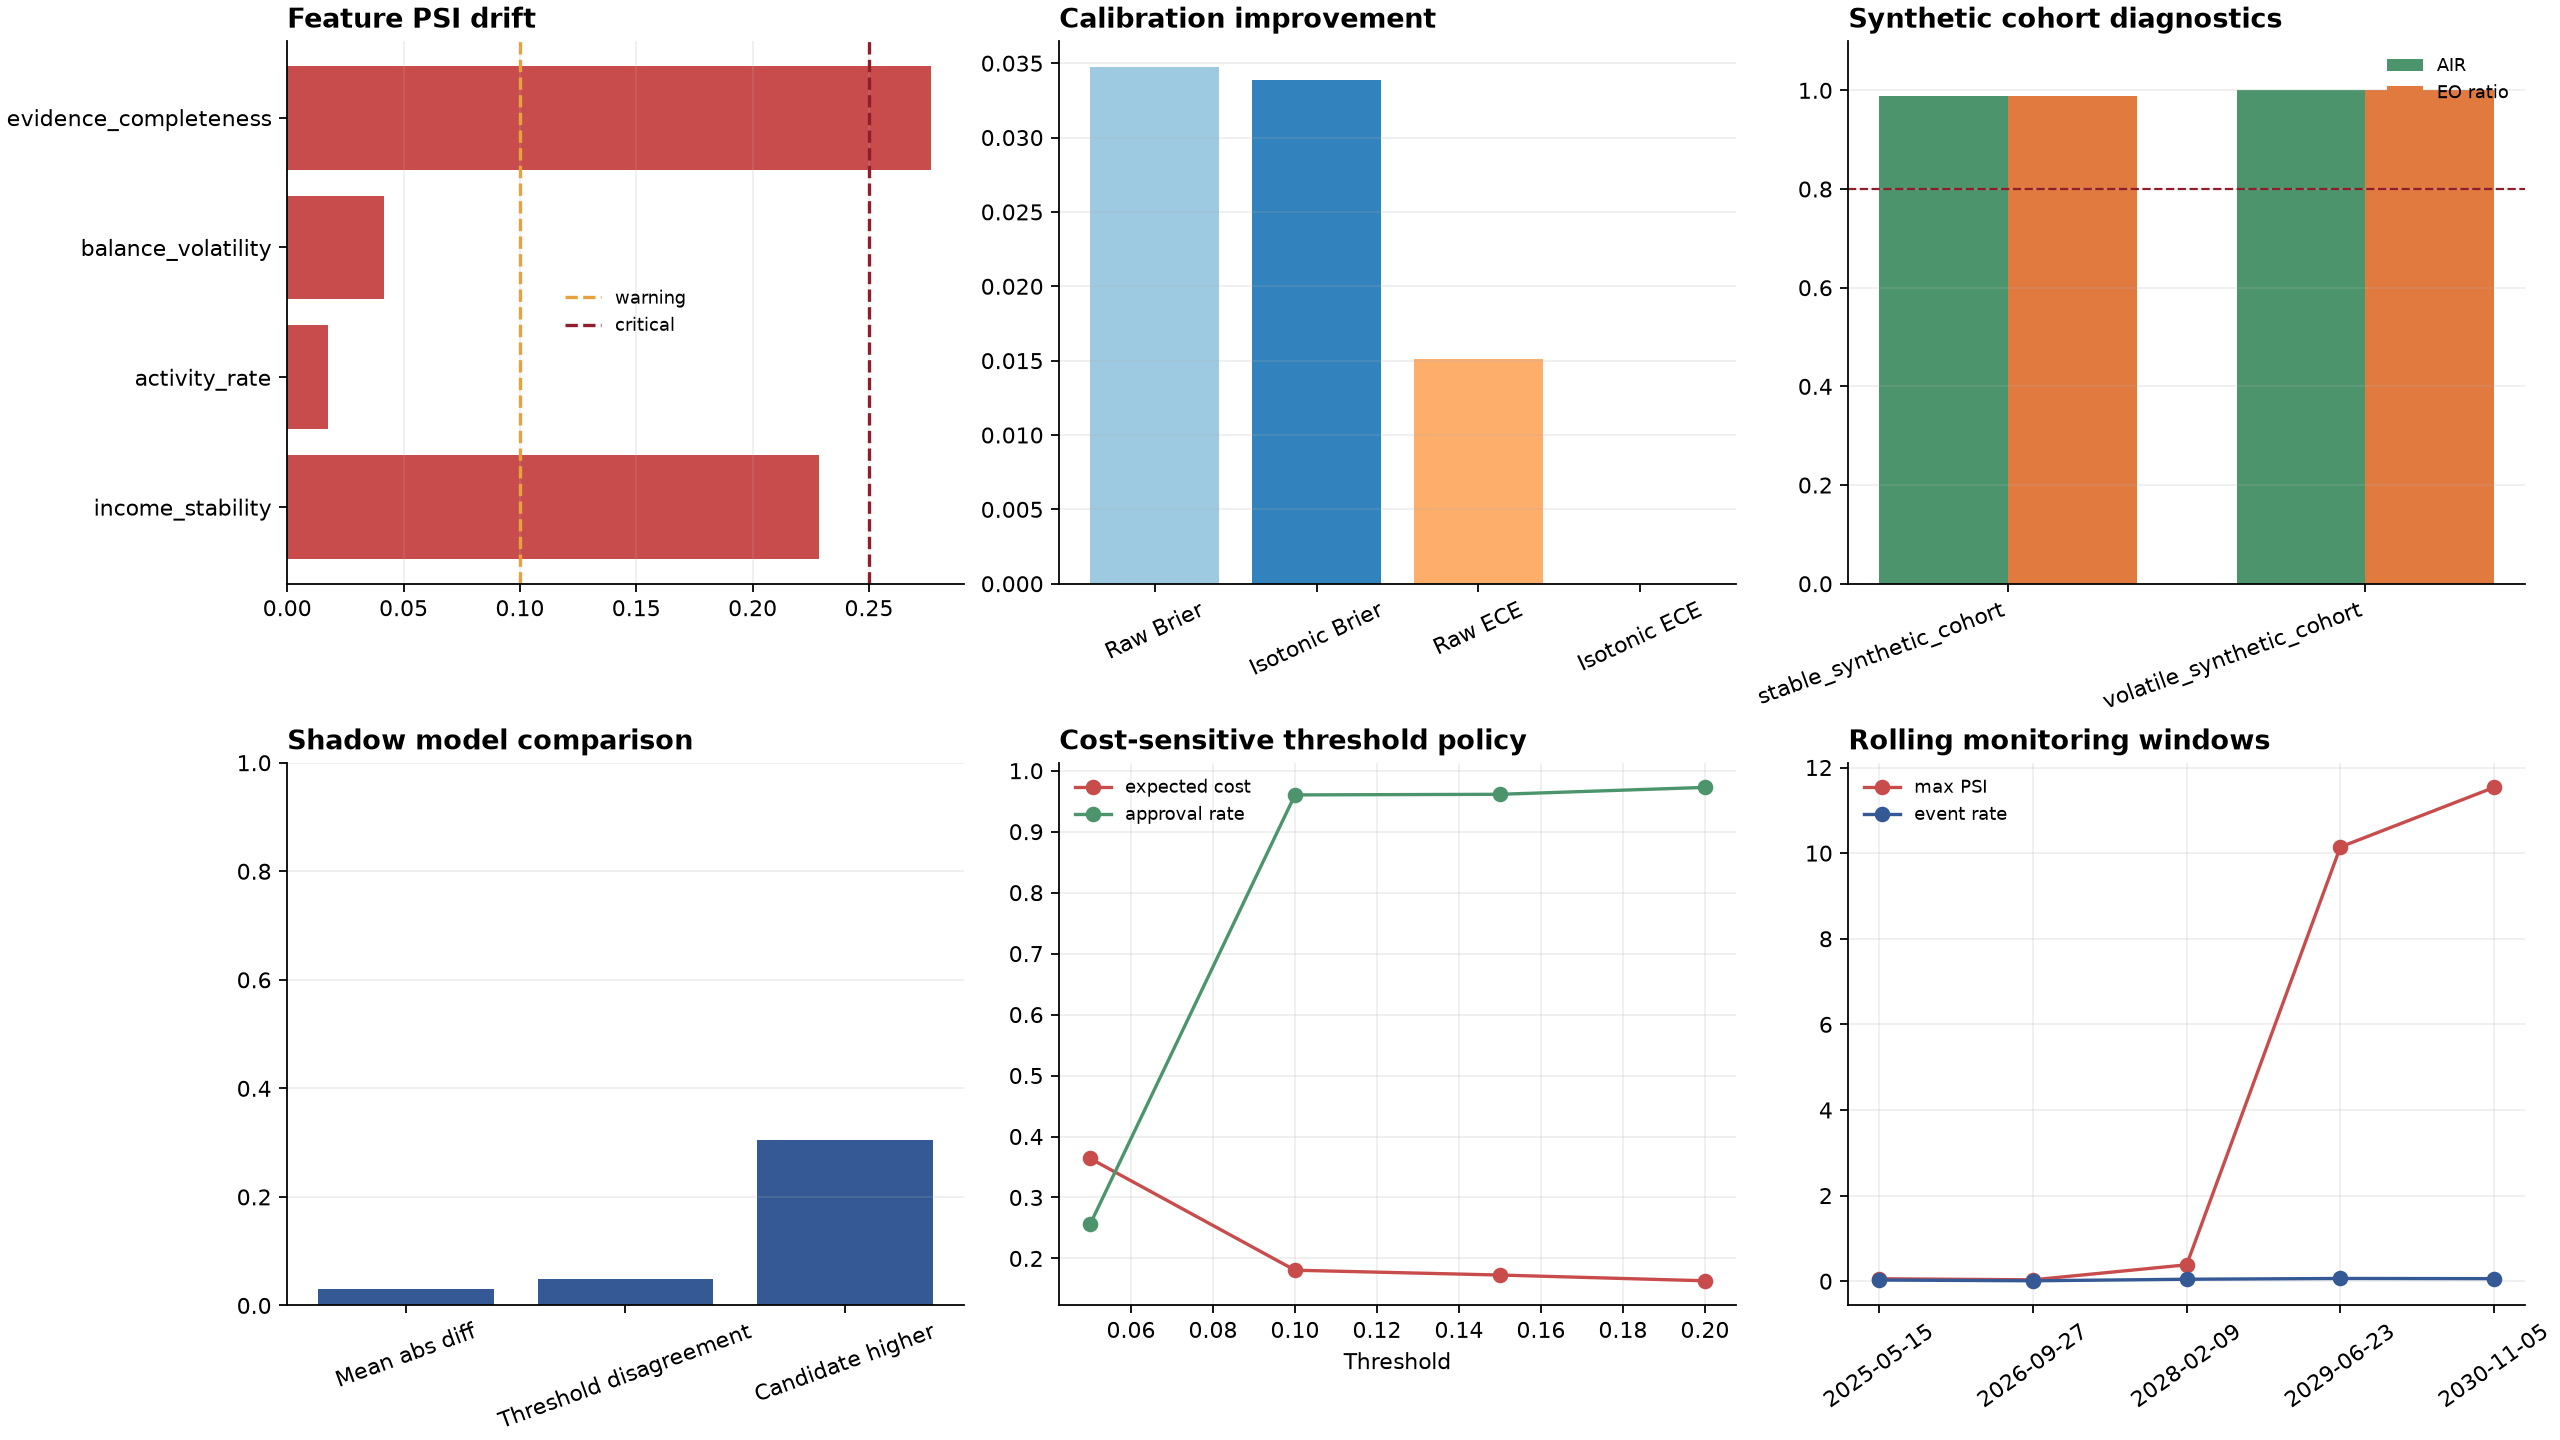
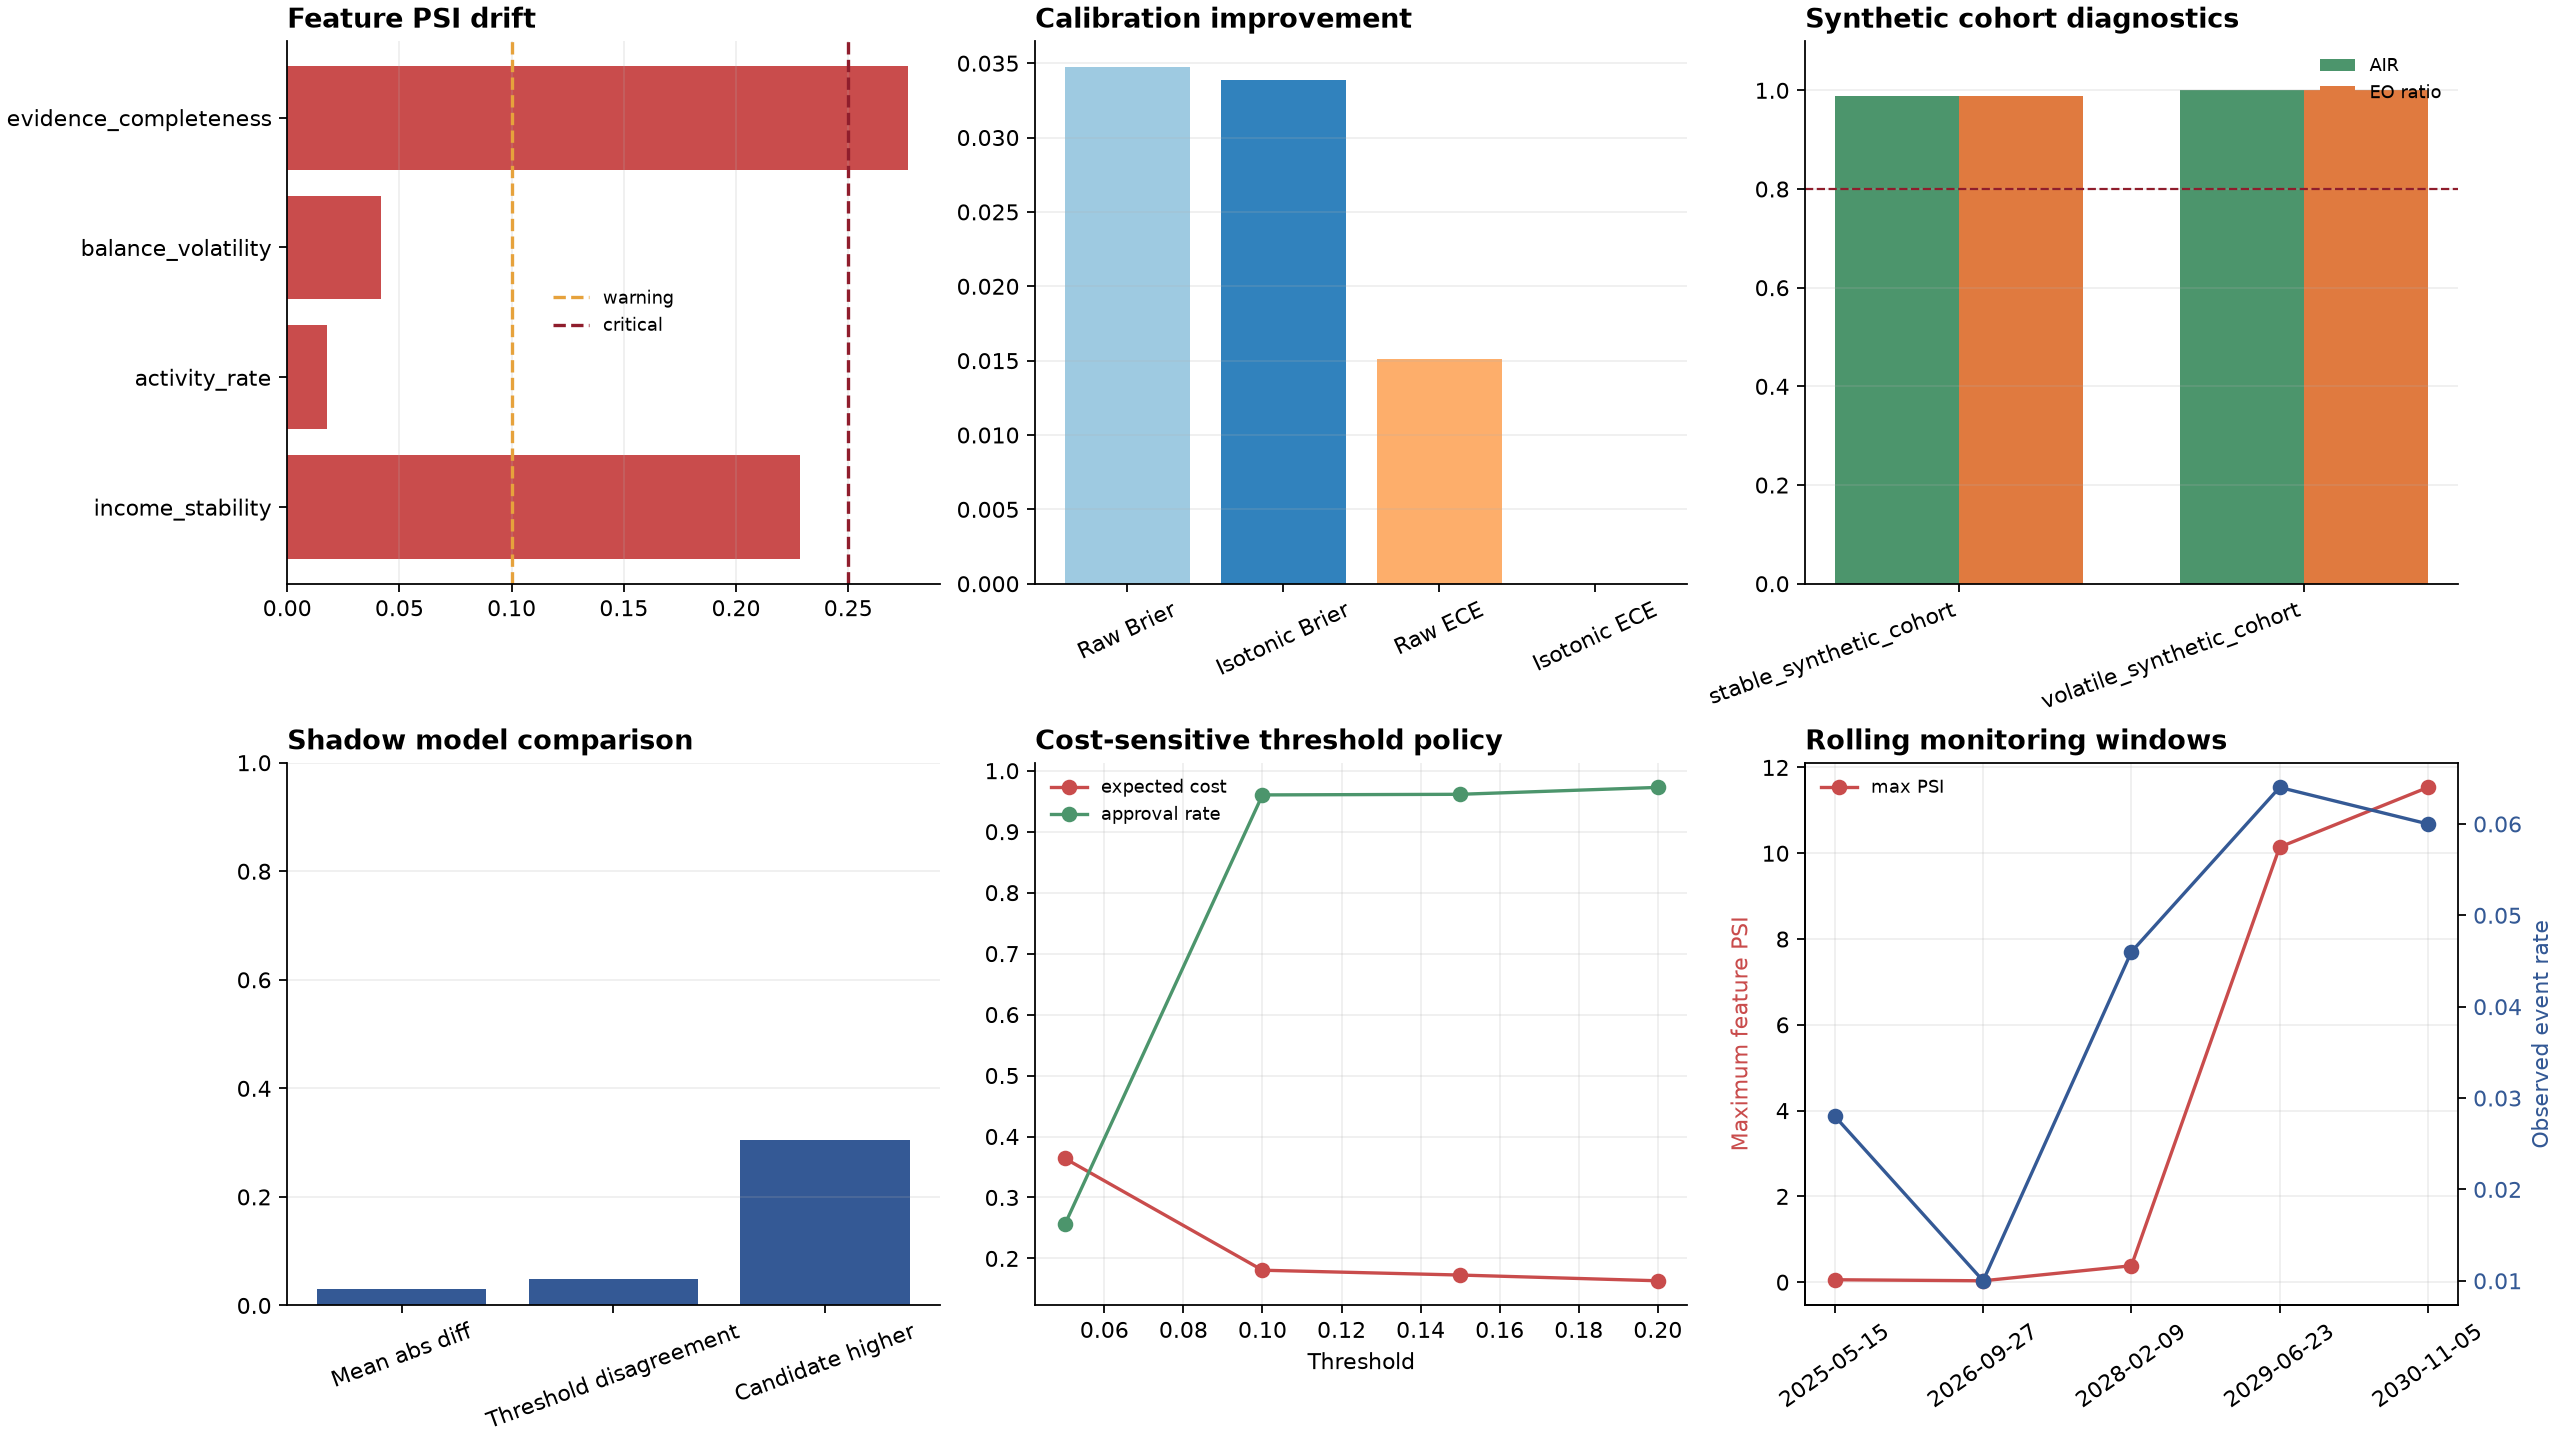
Polish lifecycle analytics dashboard

diff --git a/monitoring/full_report.py b/monitoring/full_report.py
@@ -87,10 +87,14 @@ def build_full_report(config: SyntheticConfig = SyntheticConfig(), output_dir: P
     rolling_frame = rolling.copy()
     if not rolling_frame.empty:
         axes[1, 2].plot(rolling_frame["window_start"], rolling_frame["max_feature_psi"], "o-", label="max PSI", color="#c94c4c")
-        axes[1, 2].plot(rolling_frame["window_start"], rolling_frame["event_rate"], "o-", label="event rate", color="#345995")
+        event_axis = axes[1, 2].twinx()
+        event_axis.plot(rolling_frame["window_start"], rolling_frame["event_rate"], "o-", label="event rate", color="#345995")
+        event_axis.set_ylabel("Observed event rate", color="#345995")
+        event_axis.tick_params(axis="y", labelcolor="#345995")
         axes[1, 2].tick_params(axis="x", rotation=35)
     axes[1, 2].set_title("Rolling monitoring windows", loc="left", fontweight="bold")
-    axes[1, 2].legend(frameon=False, fontsize=8)
+    axes[1, 2].set_ylabel("Maximum feature PSI", color="#c94c4c")
+    axes[1, 2].legend(frameon=False, fontsize=8, loc="upper left")
     axes[1, 2].grid(alpha=0.2)
     for axis in axes.flat:
         axis.spines[["top", "right"]].set_visible(False)
@@ -195,12 +199,12 @@ Feature drift, prediction shift, current Brier score, and lifecycle policy are e
         f"| {row['threshold']:.2f} | {row['expected_cost']:.4f} | {row['approval_rate']:.3f} | {row['review_rate']:.3f} | {row['false_accept_rate']:.3f} |"
         for row in report["threshold_cost_curve"]
     )
-    markdown += """
+    markdown += f"""
 
 ## Reproduce
 
 ```powershell
-python scripts/run_monitoring_report.py --scenario {config.scenario}
+python scripts/run_full_report.py --scenario {config.scenario}
 ```
 """
     (output_dir / "FULL_REPORT.md").write_text(markdown, encoding="utf-8")

diff --git a/reports/FULL_REPORT.md b/reports/FULL_REPORT.md
@@ -101,5 +101,5 @@ Feature drift, prediction shift, current Brier score, and lifecycle policy are e
 ## Reproduce
 
 ```powershell
-python scripts/run_monitoring_report.py --scenario {config.scenario}
+python scripts/run_full_report.py --scenario all
 ```
